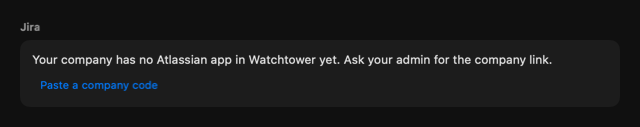
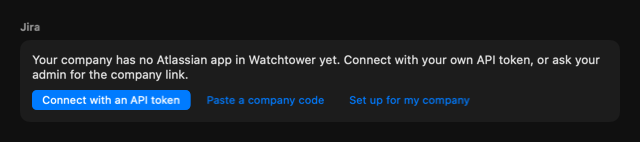
fix(desktop): Connect Gmail rereads companies and respects a blocked Google; onboarding Google card says Calendar on the public build (#1887)
Review round 1: connectGmail reads the companies afresh and ignores a
damaged draft, a blocked google source opens the detail rather than the own
project page, gmailRoute loses its dead shared-sheet case, the onboarding
subtitle comes from the model, a test proves Connect asks for Calendar only,
feature notes (onboarding-v2, google-multi-account) and setup.md follow D11,
and the new shots are copied into the mockups.

Changed region(s): [[0.0312, 0.378, 0.9375, 0.5669], [0.0312, 0.6142, 0.75, 0.7795], [0.0312, 0.1654, 0.0625, 0.2598]]

diff --git a/WatchtowerDesktop/Tests/CompanyEntryPointsTests.swift b/WatchtowerDesktop/Tests/CompanyEntryPointsTests.swift
@@ -17,6 +17,8 @@ final class CompanyEntryPointsTests: XCTestCase {
     private static let acmeWithGoogle = #"{"companies":[{"slug":"acme","company":"Acme","forced":false,"personal":false,"#
         + #""vendors":{"google":{"client_id":"goo-1"}}}],"errors":[],"draft":{"state":"none"}}"#
     private static let none = #"{"companies":[],"errors":[],"draft":{"state":"none"}}"#
+    private static let damagedDraft = #"{"companies":[],"errors":[{"file":"draft.json","error":"bad json"}],"#
+        + #""draft":{"state":"none"}}"#
     private static let damaged = #"{"companies":[],"errors":[{"file":"acme.json","error":"bad json"}],"#
         + #""draft":{"state":"none"}}"#
 
@@ -40,7 +42,9 @@ final class CompanyEntryPointsTests: XCTestCase {
     /// Without the company actions (a caller that has no zone) the menu lists services only.
     func testConnectMenuWithoutCompanyActions() throws {
         let view = ConnectionsOverviewContent(summaries: [ConnectionSummary(service: .slack, accounts: [], blocked: false)]) { _ in }
-        XCTAssertThrowsError(try view.inspect().find(ViewType.Menu.self).find(button: "Set up for my company"))
+        let menu = try view.inspect().find(ViewType.Menu.self)
+        XCTAssertNoThrow(try menu.find(button: "Slack"))
+        XCTAssertThrowsError(try menu.find(button: "Set up for my company"))
     }
 
     /// **Set up for my company** opens the wizard page; **Connect with a
@@ -79,56 +83,68 @@ final class CompanyEntryPointsTests: XCTestCase {
     func testConnectGmailOpensTheOwnProjectPage() async {
         let (appState, fake) = LinearConnectionDetailTests.wired()
         fake.enqueue(.init(lines: [Self.none]))
-        await appState.companiesZone.reload()
 
-        appState.connectGmail()
+        await appState.connectGmail()
         XCTAssertEqual(appState.selectedDestination, .connections)
         XCTAssertEqual(appState.selectedConnection, .google)
         XCTAssertTrue(appState.ownGoogleProject.isOpen)
     }
 
     /// A stored company with a Google app: the Google detail, where its row's
-    /// Connect is the way; no own project page over it.
+    /// Connect is the way; no own project page over it. The companies are
+    /// read afresh: a company stored since the zone's last read counts.
     func testConnectGmailWithACompanyGoogleAppOpensTheDetail() async {
         let (appState, fake) = LinearConnectionDetailTests.wired()
-        fake.enqueue(.init(lines: [Self.acmeWithGoogle]))
+        fake.enqueue(.init(lines: [Self.none]))
         await appState.companiesZone.reload()
+        fake.enqueue(.init(lines: [Self.acmeWithGoogle]))
 
-        appState.connectGmail()
+        await appState.connectGmail()
         XCTAssertEqual(appState.selectedConnection, .google)
         XCTAssertFalse(appState.ownGoogleProject.isOpen)
     }
 
-    /// Failure paths: company files never read, `company list` failing, or a
-    /// damaged company file — whether a company has a Google app is unknown,
-    /// so the detail (which shows the read state) opens, never the own page.
+    /// Failure paths: `company list` failing, or a damaged company file —
+    /// whether a company has a Google app is unknown, so the detail (which
+    /// shows the read state) opens, never the own page. A damaged setup
+    /// draft holds no Google app and does not count.
     func testConnectGmailWithUnknownCompaniesOpensTheDetail() async {
-        let (unread, _) = LinearConnectionDetailTests.wired()
-        unread.connectGmail()
-        XCTAssertEqual(unread.selectedConnection, .google)
-        XCTAssertFalse(unread.ownGoogleProject.isOpen)
-
         let (failed, failedFake) = LinearConnectionDetailTests.wired()
         failedFake.enqueue(.init(lines: [], exitCode: 1))
-        await failed.companiesZone.reload()
+        await failed.connectGmail()
         XCTAssertNotNil(failed.companiesZone.listError)
-        failed.connectGmail()
+        XCTAssertEqual(failed.selectedConnection, .google)
         XCTAssertFalse(failed.ownGoogleProject.isOpen)
 
         let (broken, brokenFake) = LinearConnectionDetailTests.wired()
         brokenFake.enqueue(.init(lines: [Self.damaged]))
-        await broken.companiesZone.reload()
-        broken.connectGmail()
+        await broken.connectGmail()
+        XCTAssertEqual(broken.selectedConnection, .google)
         XCTAssertFalse(broken.ownGoogleProject.isOpen)
+
+        let (draft, draftFake) = LinearConnectionDetailTests.wired()
+        draftFake.enqueue(.init(lines: [Self.damagedDraft]))
+        await draft.connectGmail()
+        XCTAssertTrue(draft.ownGoogleProject.isOpen)
     }
 
     /// Own projects locked (§5.4): the detail, whose empty state offers the company code.
     func testConnectGmailUnderTheOwnProjectLockOpensTheDetail() async {
         let (appState, fake) = LinearConnectionDetailTests.wired(policy: ["AllowOwnGoogleProject": false])
         fake.enqueue(.init(lines: [Self.none]))
-        await appState.companiesZone.reload()
 
-        appState.connectGmail()
+        await appState.connectGmail()
+        XCTAssertEqual(appState.selectedConnection, .google)
+        XCTAssertFalse(appState.ownGoogleProject.isOpen)
+    }
+
+    /// The organization blocks Google: the detail with its blocked buttons,
+    /// never the own project page (Go would refuse its sign-in at the end).
+    func testConnectGmailWithGoogleBlockedOpensTheDetail() async {
+        let (appState, fake) = LinearConnectionDetailTests.wired(policy: ["AllowedSources": ["slack", "imap"]])
+        fake.enqueue(.init(lines: [Self.none]))
+
+        await appState.connectGmail()
         XCTAssertEqual(appState.selectedConnection, .google)
         XCTAssertFalse(appState.ownGoogleProject.isOpen)
     }
@@ -139,13 +155,12 @@ final class CompanyEntryPointsTests: XCTestCase {
     func testEmailGmailCardRoutesAwayFromTheSharedSheet() async throws {
         let (appState, fake) = LinearConnectionDetailTests.wired()
         fake.enqueue(.init(lines: [Self.none]))
-        await appState.companiesZone.reload()
         XCTAssertFalse(appState.sharedGoogleOffersGmail)
 
         let view = AddEmailAccountView().environment(appState)
         XCTAssertNoThrow(try view.inspect().find(text: Pres.gmailCardLine(offersGmail: false, locks: [])))
         try view.inspect().find(button: Pres.connectGmail).tap()
-        XCTAssertEqual(appState.selectedConnection, .google)
+        await untilObserved { appState.selectedConnection == .google }
         XCTAssertTrue(appState.ownGoogleProject.isOpen)
     }
 }

diff --git a/WatchtowerDesktop/Sources/WatchtowerCore/Services/Company/CompanyConnectionsPresentation+Gmail.swift b/WatchtowerDesktop/Sources/WatchtowerCore/Services/Company/CompanyConnectionsPresentation+Gmail.swift
@@ -1,15 +1,14 @@
 import Foundation
 
-/// Where Email → Add Account → **Connect Gmail** goes (#1887 D11: the
-/// shared Google app asks for Calendar only).
+/// Where Email → Add Account → **Connect Gmail** goes on the public build
+/// (#1887 D11: the shared Google app asks for Calendar only; a flavored
+/// build keeps the Add Google Account sheet).
 package enum GmailRoute: Equatable, Sendable {
-    /// The Add Google Account sheet with its Gmail switch: a flavored build,
-    /// whose baked client asks for Gmail itself.
-    case sharedSheet
     /// The own Google project page in the Google detail (§5.2).
     case ownProjectPage
     /// The Google detail: a stored company's Google row (§5.3), or the empty
-    /// state's company code while own projects are locked (§5.4).
+    /// state's company code while own projects are locked (§5.4), or its
+    /// blocked notice while the organization blocks Google.
     case googleDetail
 }
 
@@ -30,9 +29,11 @@ extension CompanyConnectionsPresentation {
     package static let connectMenuCompanyActions: [CompaniesZoneState.Action] = [.setUpForCompany, .connectWithCode]
 
     /// Whether the Add Google Account sheet (Watchtower's baked client) may
-    /// ask for Gmail. Go's `googleOnSharedClient`: only the public,
-    /// flavorless build bakes the shared app, which asks for Calendar only
-    /// (D11); a flavored build bakes its company's app (or a developer's).
+    /// ask for Gmail. Go (`googleOnSharedClient`) refuses Gmail on the
+    /// public, flavorless build's baked shared app (D11); a flavored build
+    /// bakes its company's app (or a developer's). Conservative: a
+    /// flavorless build without a baked client (a local source build) also
+    /// keeps Gmail off here, though Go would accept it with an env client.
     package static func sharedGoogleOffersGmail(buildFlavor: String) -> Bool {
         !buildFlavor.isEmpty
     }
@@ -59,22 +60,28 @@ extension CompanyConnectionsPresentation {
         return "Gmail needs a Google project: your company's or your own. Connect opens Connections → Google."
     }
 
-    /// **Connect Gmail**: the sheet when the build's client asks for Gmail;
-    /// else a stored company's Google app (its row in the Google detail), the
-    /// own project page, or — own projects locked — the detail's company code.
-    /// `companiesKnown` is false while the company files are unread or
-    /// failed to read: the detail then, never the own project page over a
-    /// company Google app nobody could see.
+    /// The onboarding Google card's subtitle: mail only where the sheet
+    /// can ask for it.
+    package static func onboardingGoogleSubtitle(offersGmail: Bool) -> String {
+        offersGmail ? "Mail and calendar · for work communication and meetings"
+            : "Calendar · for meetings; Gmail connects later in Connections"
+    }
+
+    /// **Connect Gmail** on the public build: a stored company's Google app
+    /// (its row in the Google detail), the own project page, or — own
+    /// projects locked — the detail's company code. `companiesKnown` is
+    /// false while the company files are unread or failed to read: the
+    /// detail then, never the own project page over a company Google app
+    /// nobody could see. A blocked Google source is the detail too, whose
+    /// buttons say so (the page itself checks no policy).
     package static func gmailRoute(
-        offersGmail: Bool,
         companies: [CompanyRef],
         companiesKnown: Bool,
+        googleAllowed: Bool,
         locks: Set<LockKey>
     ) -> GmailRoute {
-        if offersGmail { return .sharedSheet }
-        guard companiesKnown else { return .googleDetail }
+        guard companiesKnown, googleAllowed, !locks.contains(.ownGoogleProject) else { return .googleDetail }
         let companyGoogle = companies.contains { !$0.personal && $0.vendors[.google] != nil }
-        if companyGoogle || locks.contains(.ownGoogleProject) { return .googleDetail }
-        return .ownProjectPage
+        return companyGoogle ? .googleDetail : .ownProjectPage
     }
 }

diff --git a/WatchtowerDesktop/Tests/Core/CompanyGmailAndMenuPresentationTests.swift b/WatchtowerDesktop/Tests/Core/CompanyGmailAndMenuPresentationTests.swift
@@ -55,17 +55,15 @@ final class CompanyGmailAndMenuPresentationTests: XCTestCase {
     }
 
     private func route(
-        offersGmail: Bool = false,
         _ companies: [CompanyRef],
         known: Bool = true,
+        googleAllowed: Bool = true,
         locks: Set<LockKey> = []
     ) -> GmailRoute {
-        Pres.gmailRoute(offersGmail: offersGmail, companies: companies, companiesKnown: known, locks: locks)
+        Pres.gmailRoute(companies: companies, companiesKnown: known, googleAllowed: googleAllowed, locks: locks)
     }
 
     func testGmailRoute() {
-        // A flavored build keeps the sheet: its client asks for Gmail itself.
-        XCTAssertEqual(route(offersGmail: true, [acme]), .sharedSheet)
         // No company Google app: the own Google project page (T26).
         XCTAssertEqual(route([]), .ownProjectPage)
         XCTAssertEqual(route([slackOnly, own]), .ownProjectPage)
@@ -73,7 +71,16 @@ final class CompanyGmailAndMenuPresentationTests: XCTestCase {
         XCTAssertEqual(route([slackOnly, acme]), .googleDetail)
         // Own projects locked (§5.4): the detail, whose empty state offers the company code.
         XCTAssertEqual(route([], locks: [.ownGoogleProject]), .googleDetail)
-        // Company files unread or failed to read: the detail, which says so, never a guess.
+        // Company files unread or failed to read: the detail, never a guess.
         XCTAssertEqual(route([], known: false), .googleDetail)
+        // The organization blocks Google: the detail with its blocked buttons, never the page.
+        XCTAssertEqual(route([], googleAllowed: false), .googleDetail)
+    }
+
+    func testOnboardingGoogleSubtitle() {
+        XCTAssertEqual(Pres.onboardingGoogleSubtitle(offersGmail: true),
+                       "Mail and calendar · for work communication and meetings")
+        XCTAssertEqual(Pres.onboardingGoogleSubtitle(offersGmail: false),
+                       "Calendar · for meetings; Gmail connects later in Connections")
     }
 }

diff --git a/WatchtowerDesktop/Tests/AddGoogleAccountViewTests.swift b/WatchtowerDesktop/Tests/AddGoogleAccountViewTests.swift
@@ -1,6 +1,7 @@
 import GRDB
 import SwiftUI
 import ViewInspector
+import WatchtowerCore
 import WatchtowerTestSupport
 import XCTest
 @testable import WatchtowerDesktop
@@ -34,6 +35,24 @@ final class AddGoogleAccountViewTests: XCTestCase {
         XCTAssertFalse(try gmail.isOn())
         XCTAssertNoThrow(try view.inspect().find(text: CompanyConnectionsPresentation.sharedGoogleGmailNote(locks: [])))
         XCTAssertFalse(try view.inspect().find(button: "Connect").isDisabled(), "Calendar alone still connects")
+    }
+
+    /// The safety property itself: Connect on the shared path asks the CLI
+    /// for Calendar only, never `--gmail` (Go would refuse it, D11).
+    func testSharedPathConnectAsksForCalendarOnly() async throws {
+        let (pool, path) = try TestDatabase.createPool()
+        addTeardownBlock { TestDatabase.cleanup(path: path) }
+        let (appState, _) = LinearConnectionDetailTests.wired()
+        let cli = try GoogleConnectionDetailTests.stubCLI(test: self)
+        let vm = GoogleAccountsViewModel(dbPool: pool, daemon: FakeDaemonRestarter()) { cli.path }
+        vm.loginEnvironment = { [:] }
+        appState.googleAccountsViewModel = vm
+        let view = AddGoogleAccountView(offersGmail: false).environment(appState)
+
+        try view.inspect().find(button: "Connect").tap()
+        await vm.addTask?.value
+        let args = try String(contentsOf: cli.log, encoding: .utf8)
+        XCTAssertEqual(args.trimmingCharacters(in: .whitespacesAndNewlines), "google add --app-return --calendar")
     }
 
     /// Own projects locked (§5.4): the note names the company's project only.

diff --git a/WatchtowerDesktop/Sources/App/AppState+CompanyDetails.swift b/WatchtowerDesktop/Sources/App/AppState+CompanyDetails.swift
@@ -146,13 +146,16 @@ extension AppState {
 
     /// Email → Add Account → **Connect Gmail** where the sheet cannot ask for
     /// Gmail: the Google detail, opened on the own Google project page unless
-    /// a company's Google app (or the policy lock) makes the detail the way.
+    /// a company's Google app, the policy (Google blocked, own projects
+    /// locked) or company files that could not be read make the detail the
+    /// way. The companies are read afresh first: the zone's last read may be
+    /// from before a link or the CLI stored a company, or never have run.
     /// The caller closes its sheet first.
-    func connectGmail() {
-        let zone = companiesZone
+    func connectGmail() async {
+        await companiesZone.reload()
         let route = CompanyConnectionsPresentation.gmailRoute(
-            offersGmail: false, companies: companyRefs,
-            companiesKnown: zone.hasRead && zone.listError == nil && zone.errors.isEmpty, locks: companyLocks)
+            companies: companyRefs, companiesKnown: companiesZone.readEveryCompany,
+            googleAllowed: managedPolicy.policy.sourceAllowed("google"), locks: companyLocks)
         if route == .ownProjectPage { ownGoogleProject.open() }
         openConnections(.google)
     }

diff --git a/WatchtowerDesktop/Tests/DesignShots/CompanySetupMockCopyTests.swift b/WatchtowerDesktop/Tests/DesignShots/CompanySetupMockCopyTests.swift
@@ -204,7 +204,7 @@ final class CompanySetupMockCopyTests: XCTestCase {
         let google = Pres.detailActions(.google, companies: [], empty: true).map(\.title)
         XCTAssertEqual(google, [Copy.connectCalendar, Copy.useOwnGoogle, Copy.pasteCode])
         let jira = Pres.detailActions(.atlassian, companies: [], empty: true).map(\.title)
-        XCTAssertEqual(jira, [Copy.connectTokenButton, Copy.pasteCode])
+        XCTAssertEqual(jira, [Copy.connectTokenButton, Copy.pasteCode, Copy.setUpForCompany]) // §2.1 entry
         XCTAssertEqual(Pres.detailActions(.atlassian, companies: [Self.acme], empty: false).map(\.title),
                        [Copy.connectCompanyAtlassian, Copy.connectTokenButton])
     }

diff --git a/WatchtowerDesktop/Sources/WatchtowerCore/Services/Company/CompaniesZoneModel.swift b/WatchtowerDesktop/Sources/WatchtowerCore/Services/Company/CompaniesZoneModel.swift
@@ -26,6 +26,14 @@ package final class CompaniesZoneModel {
     /// No read has finished yet: the zone shows its loading line.
     package private(set) var hasRead = false
 
+    /// The last read listed every company file: it finished, `company list`
+    /// worked and no company file was damaged (the draft's own error aside,
+    /// as the zone counts it).
+    package var readEveryCompany: Bool {
+        hasRead && listError == nil
+            && errors.allSatisfy { $0.file == CompanyConnectionsPresentation.draftFile }
+    }
+
     /// **Connect with a company code** opened the field (or the port is busy).
     package private(set) var codeFieldOpen = false
     package var code = "" {

diff --git a/WatchtowerDesktop/Sources/Views/Onboarding/OnboardingConnectStepView.swift b/WatchtowerDesktop/Sources/Views/Onboarding/OnboardingConnectStepView.swift
@@ -239,7 +239,8 @@ struct OnboardingConnectStepView: View {
             let account = appState.googleAccountsViewModel?.accounts.first
             sourceRow(
                 letter: "G", title: "Google",
-                subtitle: "Mail and calendar · for work communication and meetings",
+                subtitle: CompanyConnectionsPresentation.onboardingGoogleSubtitle(
+                    offersGmail: appState.sharedGoogleOffersGmail),
                 connected: account?.displayName,
                 available: appState.googleAccountsViewModel != nil,
                 error: appState.googleAccountsViewModel?.error,

diff --git a/WatchtowerDesktop/Sources/WatchtowerCore/Services/Company/CompanyConnectionsPresentation.swift b/WatchtowerDesktop/Sources/WatchtowerCore/Services/Company/CompanyConnectionsPresentation.swift
@@ -309,7 +309,7 @@ package enum CompanyConnectionsPresentation {
     private static let codeUnknownClient = "unknown_client"
     private static let codeAPITokenDead = "api_token_dead"
     private static let codePDRScopeMissing = "pdr_scope_missing"
-    private static let draftFile = "draft.json"
+    package static let draftFile = "draft.json"
 
     package static let companiesTitle = "Companies"
     package static let companiesLoading = "Reading company setups…"

diff --git a/WatchtowerDesktop/Sources/Views/Settings/AddGoogleAccountView.swift b/WatchtowerDesktop/Sources/Views/Settings/AddGoogleAccountView.swift
@@ -69,7 +69,7 @@ struct AddGoogleAccountView: View {
             }
 
             Toggle(Copy.calendar, isOn: $wantCalendar)
-            Toggle(Copy.gmail, isOn: offersGmail ? $wantGmail : .constant(false))
+            Toggle(Copy.gmail, isOn: $wantGmail)
                 .disabled(!offersGmail)
             if !offersGmail {
                 Text(CompanyConnectionsPresentation.sharedGoogleGmailNote(locks: appState.companyLocks))

diff --git a/WatchtowerDesktop/Sources/Views/Settings/AddEmailAccountView.swift b/WatchtowerDesktop/Sources/Views/Settings/AddEmailAccountView.swift
@@ -190,7 +190,7 @@ struct AddEmailAccountView: View {
             showAddGoogleAccountSheet = true
         } else {
             dismiss()
-            appState.connectGmail()
+            Task { await appState.connectGmail() }
         }
     }
 

diff --git a/docs/features/google-multi-account.md b/docs/features/google-multi-account.md
@@ -5,7 +5,7 @@
 - CLI: `watchtower google add [--calendar --gmail] [--label L] [--client-id X --client-secret-stdin] [--no-open] [--app-return]`, `google login --account <id>` (re-consent), `google accounts` (list), `google remove <id>` (transactional: row delete CASCADEs `gmail_messages`, best-effort post-commit file cleanup).
 - Inbox: the Gmail detector's `channel_id` is `gmail:<accountID>:<threadID>` (the `imap:<acct>:...` precedent, not a bare thread id); own-message suppression compares a message's sender against its *source account's* email. See `docs/inventory/inbox-pulse.md` INBOX-09 for the watermark-scoping note.
 - Memory: Gmail episode extraction iterates every connected account against its own `memory_gmail_last_extracted_ts` (moved off the `workspace` row); `mail:<message_id>` provenance format is unchanged, and both the `mail:` resolver and the `gmailthread:<thread_id>` idempotency alias are account-unscoped by design (documented v1 limitation) — see `docs/inventory/memory.md`.
-- Desktop: Settings → Google shows an account list (row = email/label + Calendar/Gmail badges + status + Remove) replacing the old single "Connect Google" block; "Add Google Account" sheet (Calendar/Gmail toggles, collapsed custom-OAuth-client advanced section) is the shared entry point from both the Gmail and Calendar account cards.
+- Desktop: Settings → Google shows an account list (row = email/label + Calendar/Gmail badges + status + Remove) replacing the old single "Connect Google" block; "Add Google Account" sheet (Calendar/Gmail toggles; the custom-OAuth-client section became the Google detail's own-project page) is the entry point from the Calendar card and onboarding. Since #1887 D11 its Gmail toggle is off and disabled on the public build (the shared app asks for Calendar only), and the Email sheet's **Connect Gmail** opens Connections → Google instead; a flavored build keeps the toggle and the sheet.
 - Account labels (2026-10-14, #742): the connect never asks for a label — the Desktop sheets (Slack, Jira, Google, Outlook/IMAP, CalDAV/ICS, onboarding included) have no field and pass no `--label` (the CLI flag stays for scripts). `internal/db/account_labels.go` is the one rule: `SlackAccountLabel` (team name, else team domain), `JiraAccountLabel` (host minus `.atlassian.net`, else site name), `MailAccountLabel` (domain lowercased, IDN in Unicode; the whole address on a public mail domain; an IMAP login without `@` → the server host), `CalDAVAccountLabel` (host, `www.` dropped), `ICSAccountLabel` (the feed's `X-WR-CALNAME`, else its host — passed in as `CalendarAccount.LabelHint`, the feed URL is never stored); `UniqueAccountLabel` adds " 2", " 3" on a case-insensitive clash within one table, removed Slack/Jira rows not counted. It runs in the write that resolves the identity — `Update{Slack,Jira,Google}AccountConnection`, `Create{Email,Calendar}Account` — best effort right after the identity is saved (its own transaction; a failure is logged and never undoes the connect or a sync), and only while `label = ''` (an owner's or earlier automatic label is never replaced, so a later team rename keeps the old label). `FillEmptyAccountLabels` backfills older accounts oldest first at daemon start, one transaction per account (old ICS feeds stay empty → the Swift `displayName` fallback). Rename: `watchtower <slack|jira|google|imap|outlook|caldav> rename <id> <name>` (`db.RenameAccount`; an empty name and a removed Slack/Jira account are refused); the Settings rows' **Rename…** alert runs it through `AccountRename` (WatchtowerCore, args `-- <id> <name>` so a leading "-" is not a flag), no daemon restart (the CalDAV/ICS syncer re-reads its label each cycle, so `calendar_calendars.name` follows a rename on the next sync).
 - Design/plan: `docs/superpowers/specs/2026-07-30-google-multi-account-design.md`, `docs/superpowers/plans/2026-07-30-google-multi-account.md`. Non-goals (v1): cross-account event dedup, concurrent OAuth flows, per-account sync schedules, multi-Slack/multi-Jira (sub-projects 2–3, specced separately, reusing these conventions).
 - Source deletions (2026-10-17, board #640): `google_accounts.deletions_checked_at` is the per-account daily stamp for the Gmail deleted-mail check; see [source-deletions.md](source-deletions.md).
